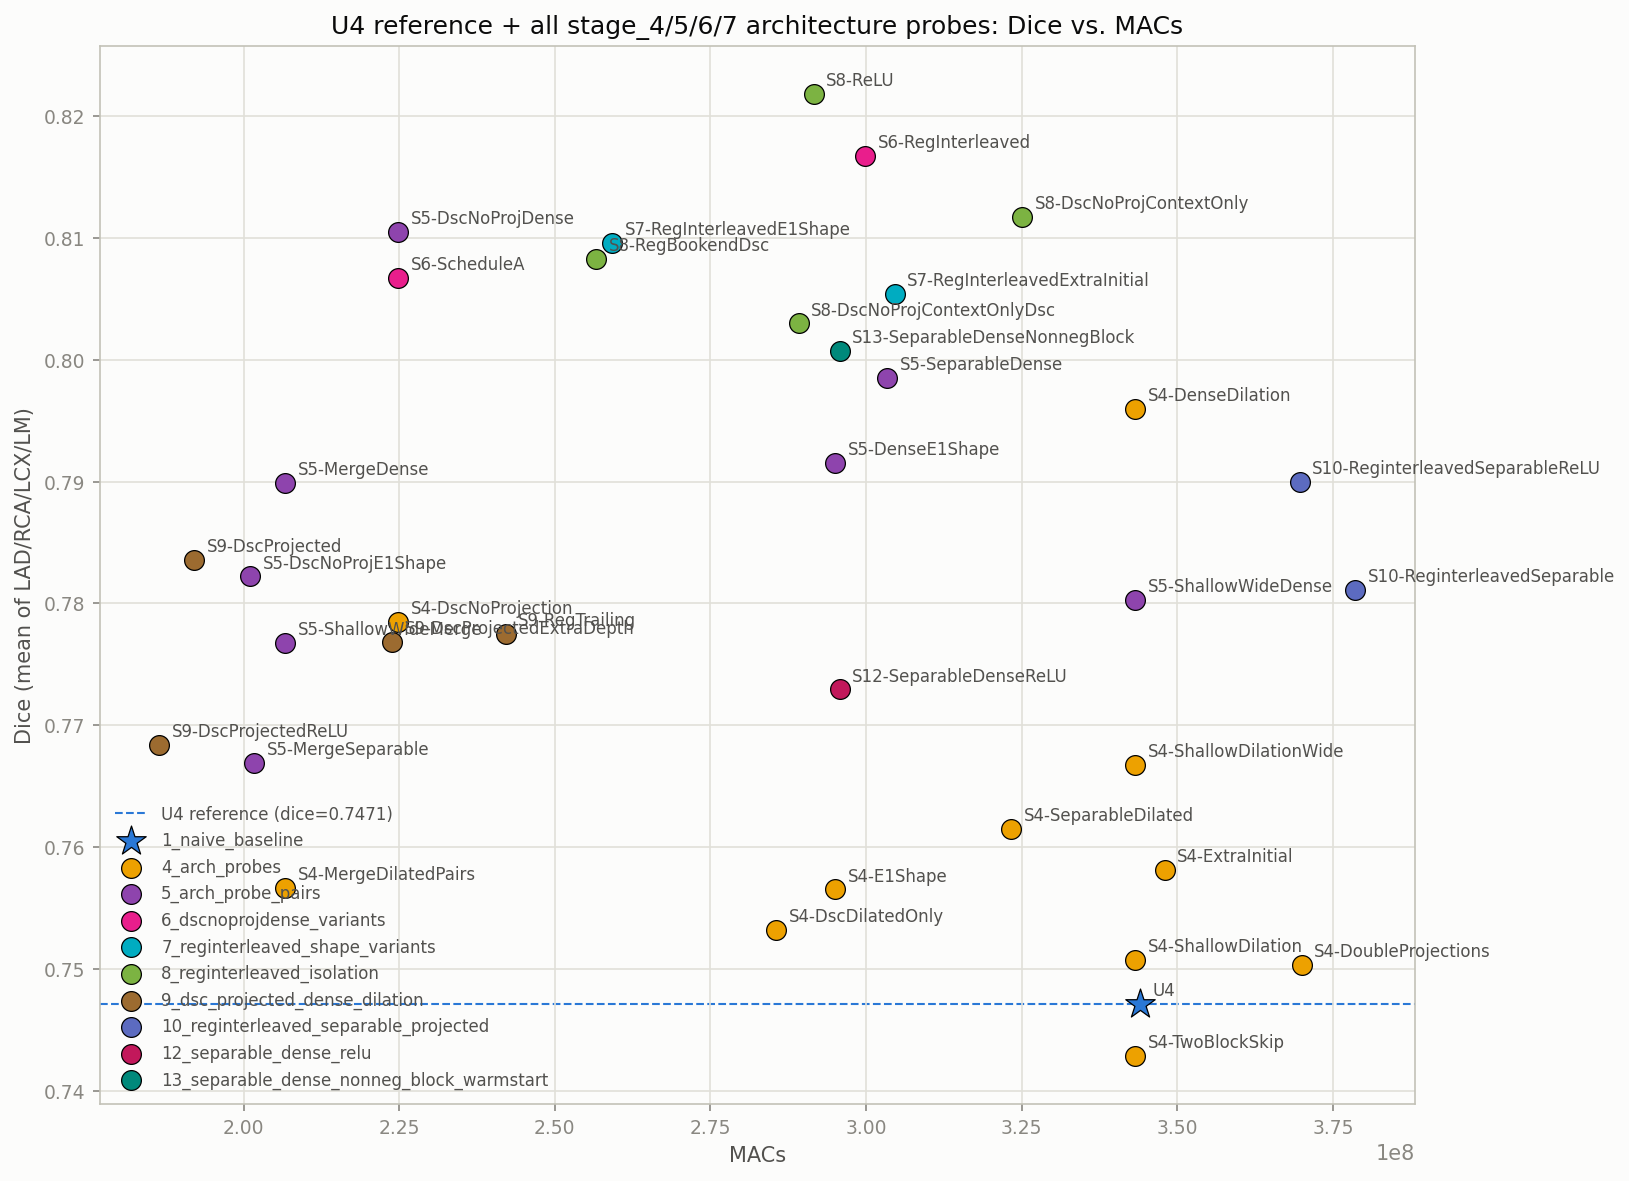
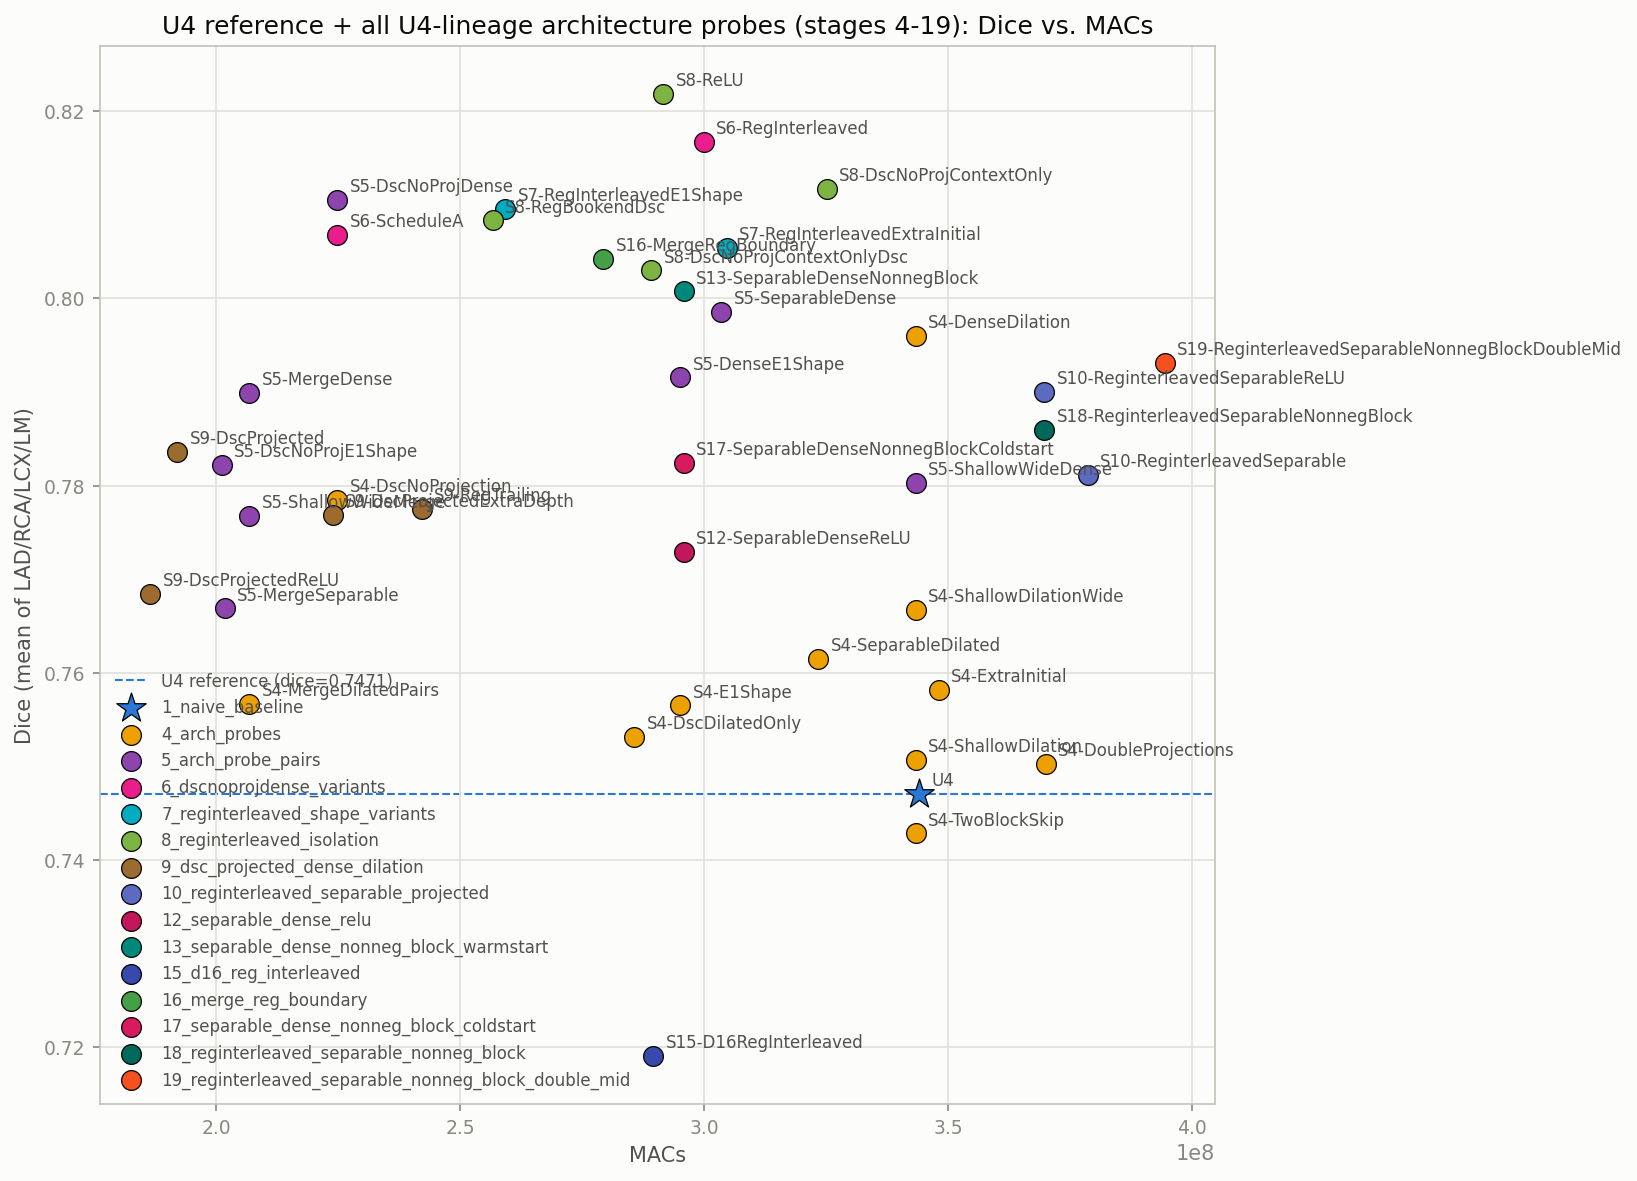
Extend arch-probes-focused plots to cover stages 15-19
plot_arch_probes_focused.py's filter/STAGE_COLORS stopped at stage 13 --
S15-S19 are all U4-lineage probes too (same channel shape, same "what
beats the U4 reference" framing) and were silently excluded. Added them to
the filter, STAGE_COLORS, docstring, and plot titles; regenerated all three
PNGs.

diff --git a/compression/plot_arch_probes_focused.py b/compression/plot_arch_probes_focused.py
@@ -1,9 +1,14 @@
 """Focused Dice vs. params/MACs plot for just U4 (the shared reference
 cell) plus every stage_4_arch_probes, stage_5_arch_probe_pairs,
 stage_6_dscnoprojdense_variants, stage_7_reginterleaved_shape_variants,
-stage_8_reginterleaved_isolation, and stage_9_dsc_projected_dense_dilation
-config -- i.e. everything actually built off that one reference point, with
-the rest of the sweep (Base/U2/U3/U6/U8/U16/E1, stage_2_special_ops,
+stage_8_reginterleaved_isolation, stage_9_dsc_projected_dense_dilation,
+stage_10_reginterleaved_separable_projected, stage_12_separable_dense_relu,
+stage_13_separable_dense_nonneg_block_warmstart, stage_15_d16_reg_interleaved,
+stage_16_merge_reg_boundary, stage_17_separable_dense_nonneg_block_coldstart,
+stage_18_reginterleaved_separable_nonneg_block, and
+stage_19_reginterleaved_separable_nonneg_block_double_mid config -- i.e.
+everything actually built off that one reference point, with the rest of
+the sweep (Base/U2/U3/U6/U8/U16/E1, stage_2_special_ops,
 stage_3_transfer_original) filtered out as noise for this comparison. A
 horizontal dashed line at U4's own dice marks the bar every probe is trying
 to clear.
@@ -36,6 +41,11 @@ STAGE_COLORS = {
     "10_reginterleaved_separable_projected": "#5c6bc0",
     "12_separable_dense_relu": "#c2185b",
     "13_separable_dense_nonneg_block_warmstart": "#00897b",
+    "15_d16_reg_interleaved": "#3949ab",
+    "16_merge_reg_boundary": "#43a047",
+    "17_separable_dense_nonneg_block_coldstart": "#d81b60",
+    "18_reginterleaved_separable_nonneg_block": "#00695c",
+    "19_reginterleaved_separable_nonneg_block_double_mid": "#f4511e",
 }
 U4_LINE_COLOR = "#2a78d6"
 
@@ -102,6 +112,11 @@ def main() -> int:
         | (df["stage"] == "10_reginterleaved_separable_projected")
         | (df["stage"] == "12_separable_dense_relu")
         | (df["stage"] == "13_separable_dense_nonneg_block_warmstart")
+        | (df["stage"] == "15_d16_reg_interleaved")
+        | (df["stage"] == "16_merge_reg_boundary")
+        | (df["stage"] == "17_separable_dense_nonneg_block_coldstart")
+        | (df["stage"] == "18_reginterleaved_separable_nonneg_block")
+        | (df["stage"] == "19_reginterleaved_separable_nonneg_block_double_mid")
     ].dropna(subset=["params", "dice"]).copy()
     if focused.empty:
         print("No U4/stage_4/.../stage_13 rows found in results.csv yet.")
@@ -116,7 +131,7 @@ def main() -> int:
 
     fig, ax = plt.subplots(figsize=(11, 8), facecolor=SURFACE)
     _plot(ax, focused, "params", "Parameters", abbrev, u4_dice)
-    ax.set_title("U4 reference + all stage_4/5/6/7 architecture probes: Dice vs. Parameters",
+    ax.set_title("U4 reference + all U4-lineage architecture probes (stages 4-19): Dice vs. Parameters",
                  color=INK, fontsize=12)
     fig.tight_layout()
     out_path = args.out_dir / "arch_probes_focused_dice_vs_params.png"
@@ -127,7 +142,7 @@ def main() -> int:
     focused["macs"] = focused["flops"] / 2
     fig, ax = plt.subplots(figsize=(11, 8), facecolor=SURFACE)
     _plot(ax, focused, "macs", "MACs", abbrev, u4_dice)
-    ax.set_title("U4 reference + all stage_4/5/6/7 architecture probes: Dice vs. MACs",
+    ax.set_title("U4 reference + all U4-lineage architecture probes (stages 4-19): Dice vs. MACs",
                  color=INK, fontsize=12)
     fig.tight_layout()
     out_path = args.out_dir / "arch_probes_focused_dice_vs_macs.png"
@@ -140,7 +155,7 @@ def main() -> int:
         if not mem_focused.empty:
             fig, ax = plt.subplots(figsize=(11, 8), facecolor=SURFACE)
             _plot(ax, mem_focused, "mem_elements", "FINN buffer memory (activation elements)", abbrev, u4_dice)
-            ax.set_title("U4 reference + all stage_4/5/6/7/8 architecture probes: Dice vs. FINN buffer memory",
+            ax.set_title("U4 reference + all U4-lineage architecture probes (stages 4-19): Dice vs. FINN buffer memory",
                          color=INK, fontsize=12)
             fig.tight_layout()
             out_path = args.out_dir / "arch_probes_focused_dice_vs_mem_elements.png"
